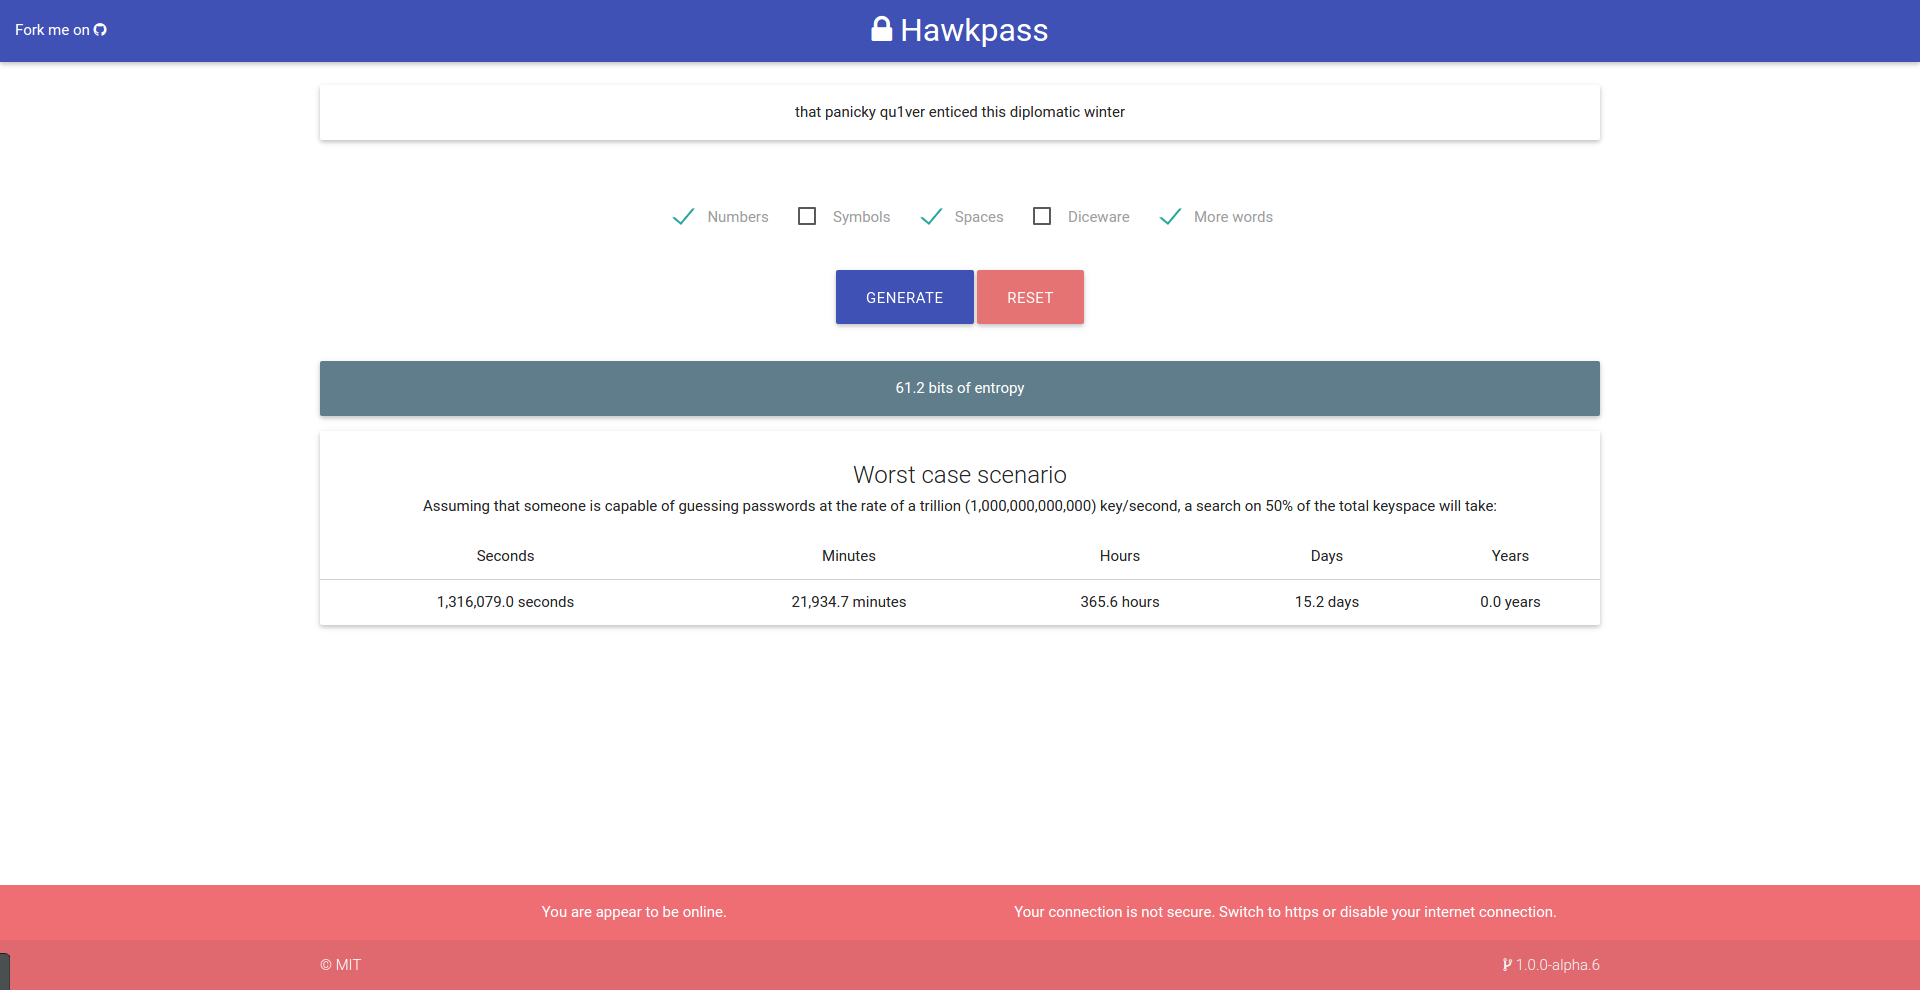
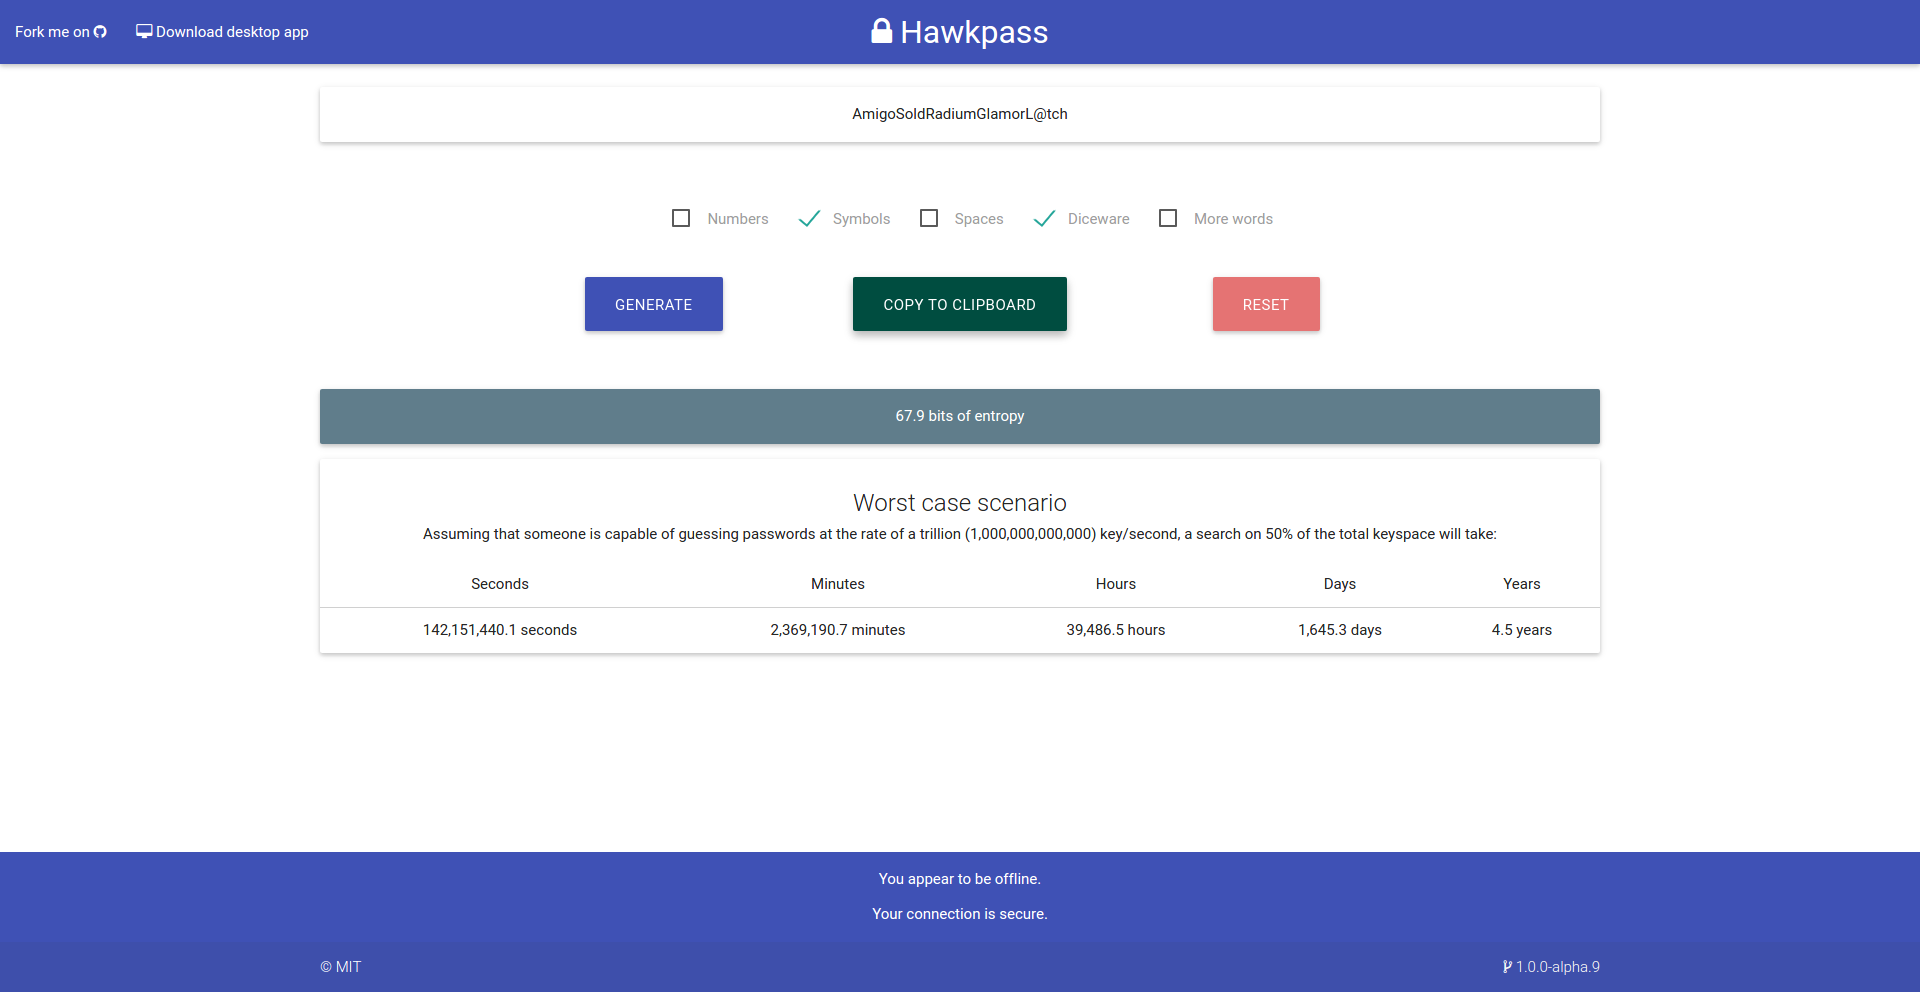
fix: some UI fixes

diff --git a/index.html b/index.html
@@ -3,7 +3,7 @@
 ## Strong random password generator
 ## Created by: Petros Kalogiannakis (@kalpetros)
 ## Created: 20 August 2015
-## Updated: 24 April 2016
+## Updated: 28 April 2016
 ## Licence: MIT
 -->
 <!DOCTYPE html>
@@ -83,9 +83,19 @@
 						  </form>
 						</div>
 						<div class="section center">
-							<button class="waves-effect waves-light btn-large generate indigo" id="generate_button" type="submit" name="action">Generate</button>
-							<button class="waves-effect waves-light btn-large clipboard teal darken-4" data-clipboard-target="#password">Copy to clipboard</button>
-							<button class="waves-effect waves-light btn-large reset red lighten-2" id="reset_button" type="submit" name="action">Reset</button>
+							<div class="container">
+								<div class="row">
+									<div class="col s12 m4 l4">
+										<button class="waves-effect waves-light btn-large generate generate_button indigo" type="submit" name="action">Generate</button>
+									</div>
+									<div class="col s12 m4 l4">
+										<button class="waves-effect waves-light btn-large clipboard clipboard_button teal darken-4" data-clipboard-target="#password">Copy to clipboard</button>
+									</div>
+									<div class="col s12 m4 l4">
+										<button class="waves-effect waves-light btn-large reset reset_button red lighten-2" type="submit" name="action">Reset</button>
+									</div>
+								</div>
+							</div>
 						</div>
 						<div class="section stats">
 		        	<div class="card-panel blue-grey white-text center">
@@ -96,7 +106,7 @@
 		              <span class="card-title worstcase"></span>
 		              <p class="worstcasetext"></p>
 		            </div>
-								<table class="centered">
+								<table class="centered responsive-table">
 					        <thead>
 					          <tr>
 				              <th data-field="seconds">Seconds</th>
@@ -147,7 +157,7 @@
       <div class="footer-copyright">
         <div class="container">
         <a class="white-text" href="https://github.com/kalpetros/hawkpass/blob/master/LICENCE">© MIT</a>
-				<p class="grey-text text-lighten-4 right"><i class="fa fa-code-fork"></i> 1.0.0-alpha.8</p>
+				<p class="grey-text text-lighten-4 right"><i class="fa fa-code-fork"></i> 1.0.0-alpha.9</p>
         </div>
       </div>
     </footer>

diff --git a/js/generate.js b/js/generate.js
@@ -183,7 +183,10 @@
             }
             return val;
           };
-          $('.clipboard').show();
+          $('.clipboard').removeClass('disabled');
+          $('.reset').removeClass('disabled');
+          $('.clipboard').addClass('clipboard_button');
+          $('.reset').addClass('reset_button');
           $('.stats').show();
           $('.entropy').html(entropy + " bits of entropy");
           $('.worstcase').html("Worst case scenario");
@@ -195,12 +198,15 @@
           $('.years').html(commaSeparateNumber((possibles / large_guesses_per_years).toFixed(1)) + " years");
       }
       , reset_password = function() {
-          $('.main_page .password').html("Click <kbd>Generate</kbd> to generate a new password");
-          $('.clipboard').hide();
+          $('.main_page .password').html('Click <div class="chip">Generate</div> to generate a new password.');
           $('.stats').hide();
+          $('.clipboard').addClass('disabled');
+          $('.reset').addClass('disabled');
+          $('.clipboard').removeClass('clipboard_button');
+          $('.reset').removeClass('reset_button');
         };
-    $('#generate_button').click(generate_password);
-    $('#reset_button').click(reset_password);
+    $('.generate_button').click(generate_password);
+    $('.reset_button').click(reset_password);
 
     if ( events_left == 0 ) {
       $('.entropy_box').hide();

diff --git a/css/stylesheet.css b/css/stylesheet.css
@@ -3,7 +3,7 @@
 ## Strong random password generator
 ## Created by: Petros Kalogiannakis (@kalpetros)
 ## Created: 20 August 2015
-## Updated: 24 April 2016
+## Updated: 28 April 2016
 ## Licence: MIT
 */
 /* Sticky footer */
@@ -20,15 +20,20 @@ body {
 	display: inline-block;
 	margin-left: 2%;
 }
-.page-footer {
-	margin-top: 0px !important;
+/* Buttons */
+.btn-large {
+	margin-top: 2%;
 }
+/* Remove space above footer */
+.page-footer {
+	margin-top: 0 !important;
+}
+/* Entropy page */
 .entropy_box {
 	height: 100%;
 	width: 100%;
-	top: 0;
-	bottom: 0;
 }
+/* Entropy page text - vertical and horizontal alignment */
 .text {
 	top: 50%;
 	left: 50%;

diff --git a/js/functions.js b/js/functions.js
@@ -1,4 +1,4 @@
-var clipboard = new Clipboard('.clipboard');
+var clipboard = new Clipboard('.clipboard_button');
 
 clipboard.on('success', function() {
   // Materialize.toast(message, displayLength, className, completeCallback);
